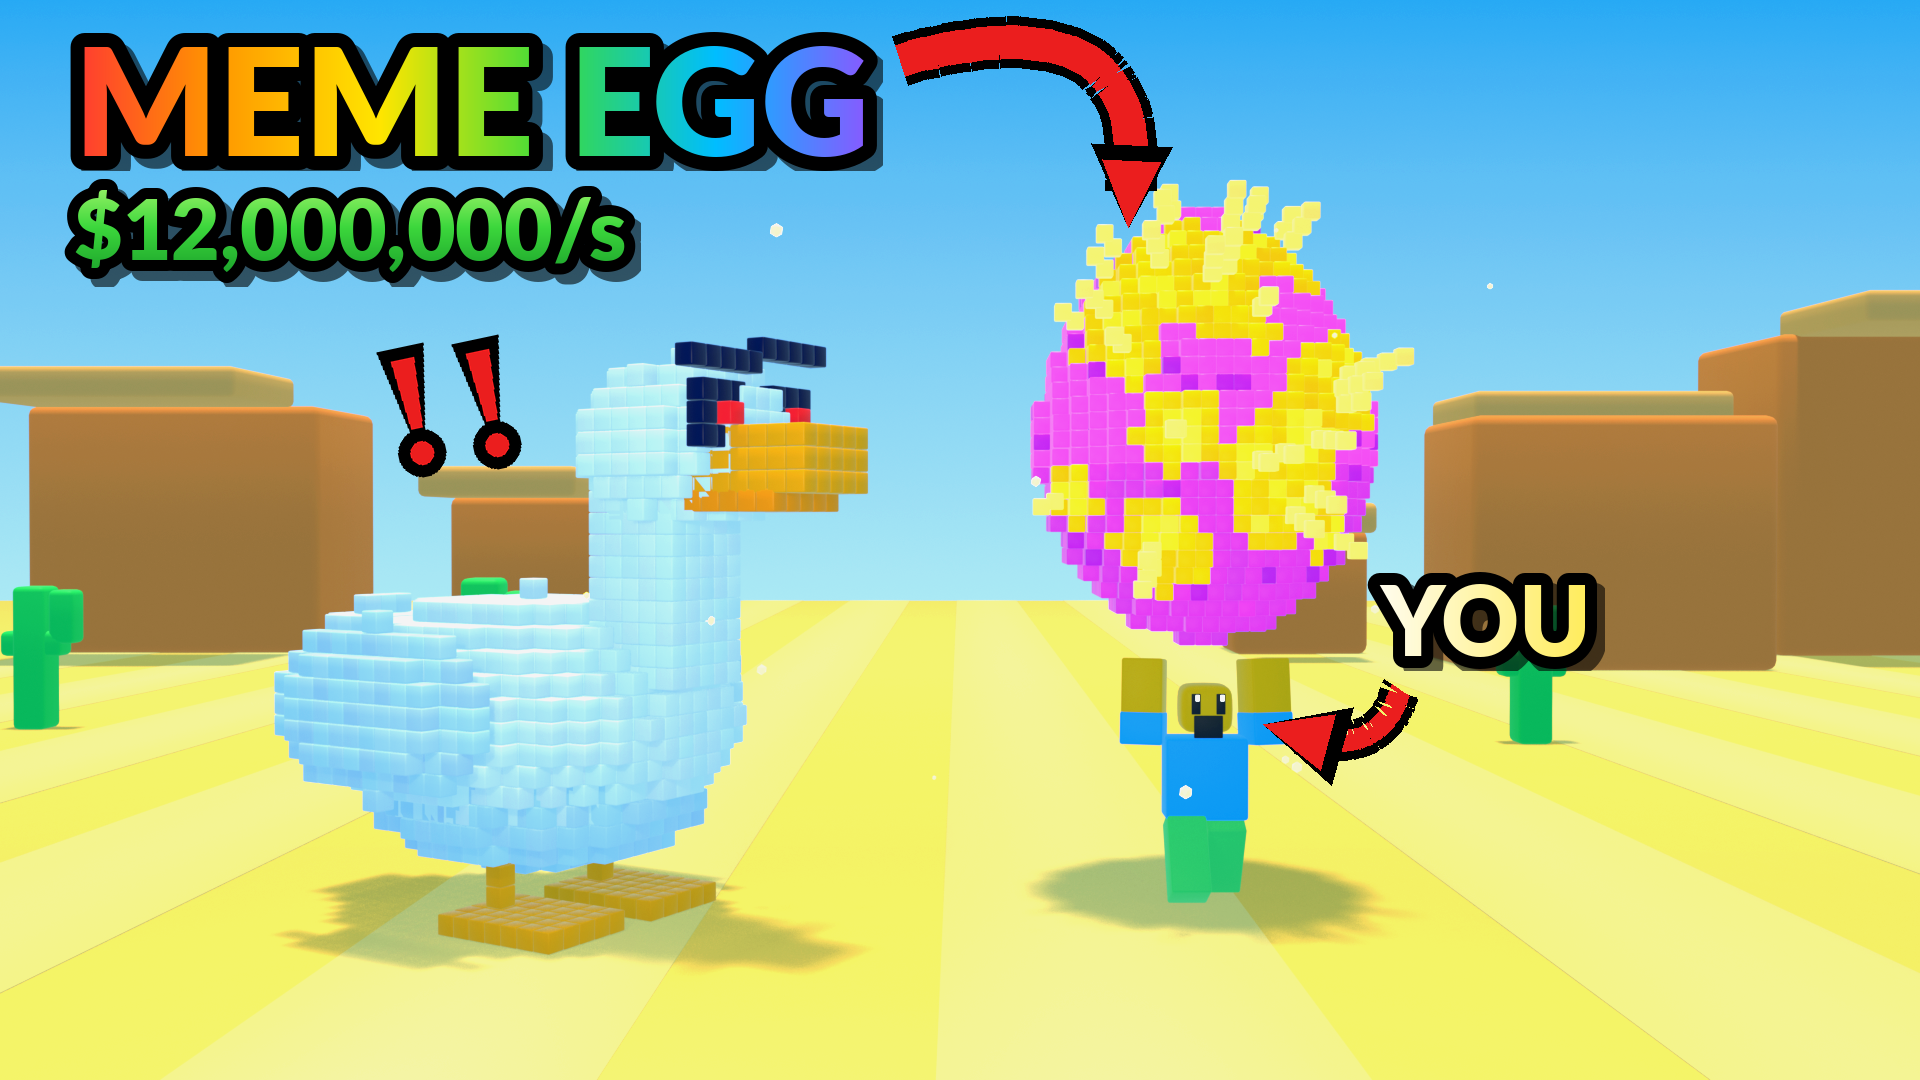
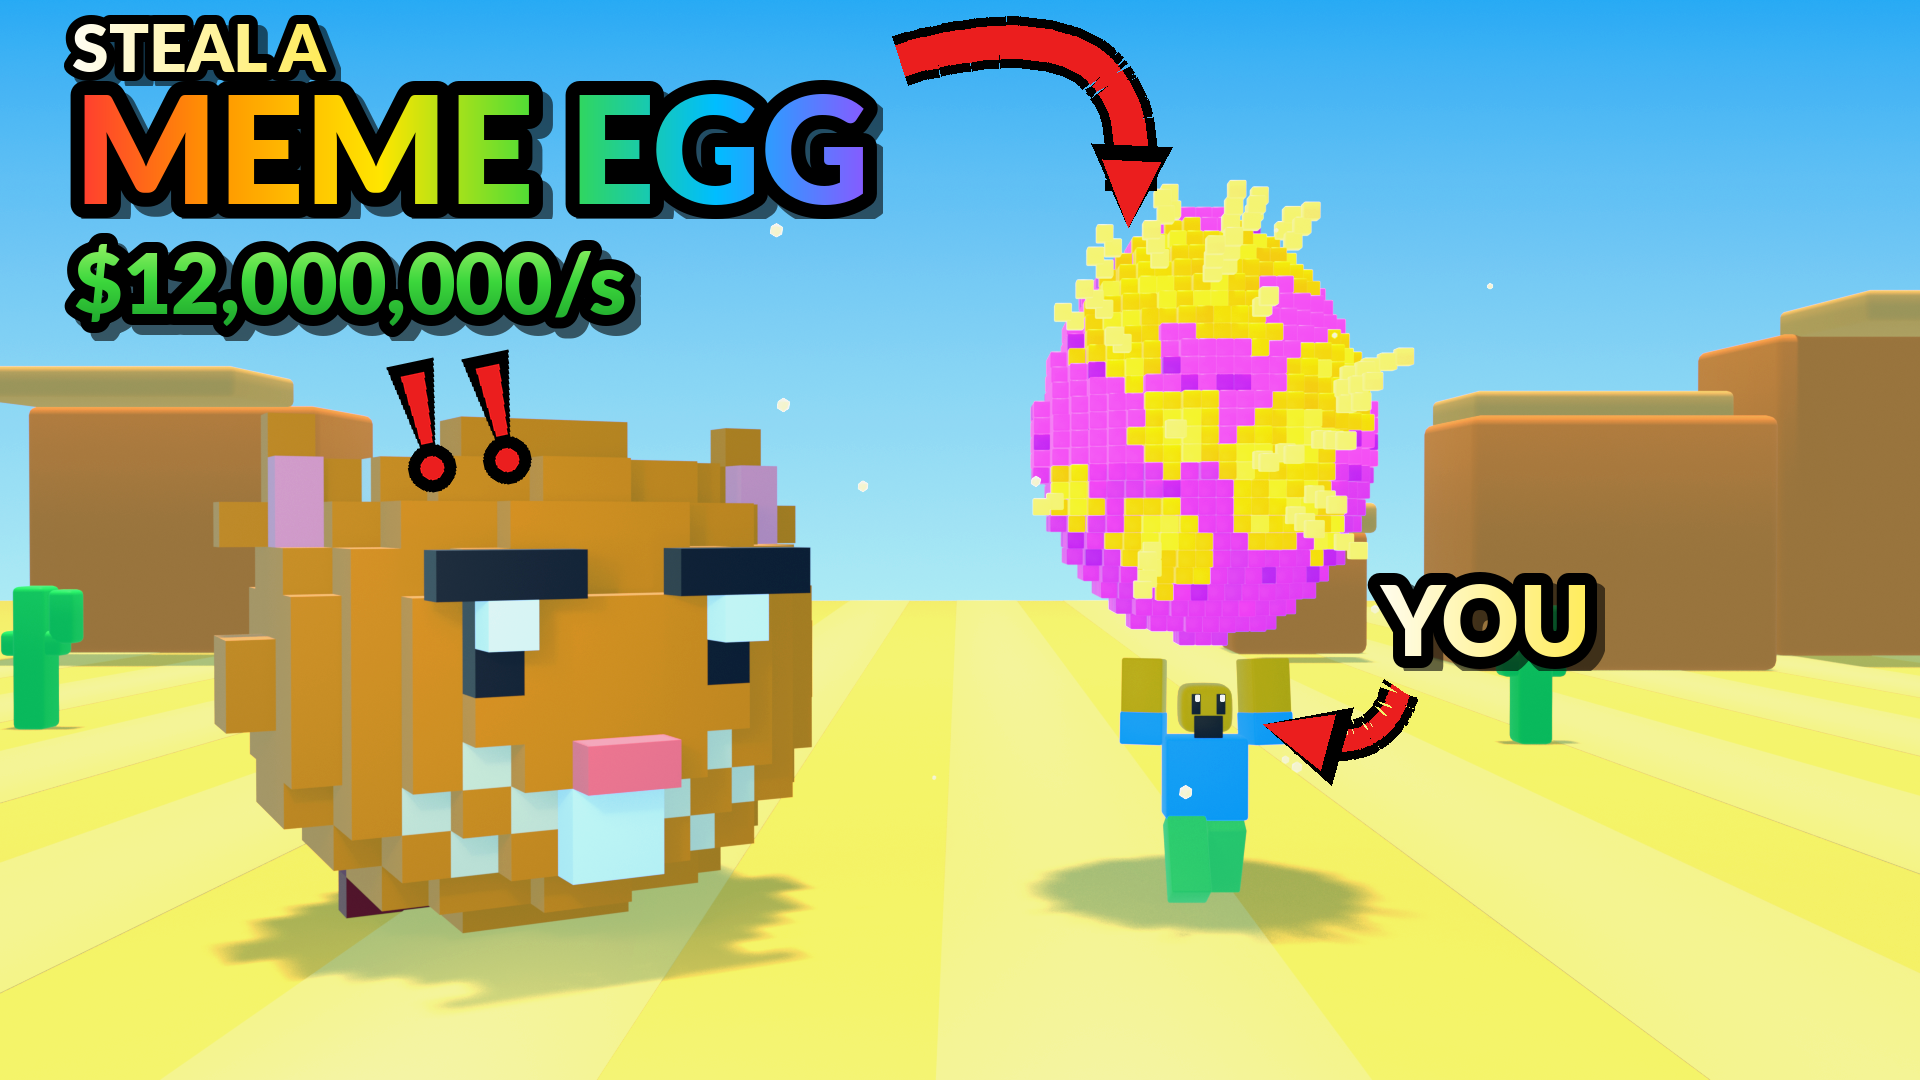
art: the thumbnail's boss is the Final Boss Hamster (a real brick model), not a goose; the title says STEAL A MEME EGG

Changed region(s): [[0.0312, 0.0, 0.4688, 0.9472]]

diff --git a/art/blender/thumb.py b/art/blender/thumb.py
@@ -281,6 +281,41 @@ def voxel_duck(origin, yaw, s=1.0, seed=7):
     return root
 
 
+def brick_boss(model, origin, yaw, scale=1.0):
+    """A real brick model from art/renders/models (the same data the game's boss is built from), one mesh per colour. The model's
+    front (-Z) turns to face the camera (-y) at yaw 0."""
+    import bmesh, json
+    from mathutils import Matrix
+    parts = json.load(open(os.path.join(ROOT, "models", model + ".json")))
+    root = bpy.data.objects.new(model, None)
+    bpy.context.scene.collection.objects.link(root)
+    root.location = origin
+    root.rotation_euler = (0, 0, yaw)
+    root.scale = (scale, scale, scale)
+    buckets = {}
+    for p in parts:
+        buckets.setdefault((p["r"], p["g"], p["b"]), []).append(p)
+
+    def lin(c):
+        c = c / 255
+        return c / 12.92 if c <= 0.04045 else ((c + 0.055) / 1.055) ** 2.4
+    for key, plist in buckets.items():
+        mesh = bpy.data.meshes.new(model)
+        bm = bmesh.new()
+        for p in plist:
+            # model (x, y up, z back) -> scene (-x, z, y): a half turn about the vertical, so the front faces -y
+            m = (Matrix.Translation((-p["x"], p["z"], p["y"])) @ Matrix.Diagonal((p["sx"] / 2, p["sz"] / 2, p["sy"] / 2, 1)))
+            bmesh.ops.create_cube(bm, size=2.0, matrix=m)
+        bm.to_mesh(mesh)
+        bm.free()
+        material = mat("b", (lin(key[0]), lin(key[1]), lin(key[2])), 0.42)
+        mesh.materials.append(material)
+        o = bpy.data.objects.new(model, mesh)
+        bpy.context.scene.collection.objects.link(o)
+        o.parent = root
+    return root
+
+
 def shot_wide():
     setup((1920, 1080))
     gradient_sky()
@@ -288,7 +323,7 @@ def shot_wide():
     hero = (7.5, 0, 14.5)
     voxel_egg(hero, 5.2, 6.6, seed=3)
     avatar(7.5, -1, 0, (0.1, 0.45, 1.0), (0.2, 0.7, 0.2), (1.0, 0.55, 0.04), yaw=0, arms=(0.1, 0.1), stride=0.5, lean=0.0, scale=1.25)
-    voxel_duck((-12, -3, 0), 1.05, 1.2)
+    brick_boss("BossCosmic", (-12.5, -3, 0), 0.55, 1.55)  # Final Boss Hamster, furious
     sparkles((3, -4, 12), (14, 2, 8), 18, 5)
     light("SUN", (20, -30, 50), 2.6, (1.0, 0.95, 0.85))
     light("AREA", (-10, -30, 14), 1800, (1.0, 0.95, 0.85), size=12, target=(0, 0, 8))

diff --git a/brand/make_thumb.py b/brand/make_thumb.py
@@ -16,11 +16,12 @@ ROOT = pathlib.Path(__file__).parent.parent
 
 def wide():
     img = punch(Image.open(ROOT / "art/renders/thumb_wide.png").convert("RGB")).convert("RGBA")
-    outlined_text(img, (46, 18), "MEME EGG", 150, RAINBOW, outline=14, horizontal=True)
-    outlined_text(img, (52, 168), "$12,000,000/s", 84, MONEY, outline=11)
+    outlined_text(img, (54, 6), "STEAL A", 66, [(255, 255, 255), (255, 235, 80)], outline=9, horizontal=True)
+    outlined_text(img, (46, 66), "MEME EGG", 150, RAINBOW, outline=14, horizontal=True)
+    outlined_text(img, (52, 222), "$12,000,000/s", 84, MONEY, outline=11)
     arrow(img, (900, 60), (1150, -10), (1130, 190))  # from the name to the egg
-    bang(img, 330, 330, 70, 12)  # the guardian is not happy
-    bang(img, 405, 322, 70, 12)
+    bang(img, 340, 345, 70, 12)  # the boss is not happy
+    bang(img, 415, 337, 70, 12)
     outlined_text(img, (1355, 560), "YOU", 96, [(255, 255, 255), (255, 235, 80)], outline=12, horizontal=True)
     arrow(img, (1400, 690), (1380, 760), (1300, 735), width=22)  # YOU -> the avatar
     out = ROOT / "brand/thumb_1920x1080.png"
